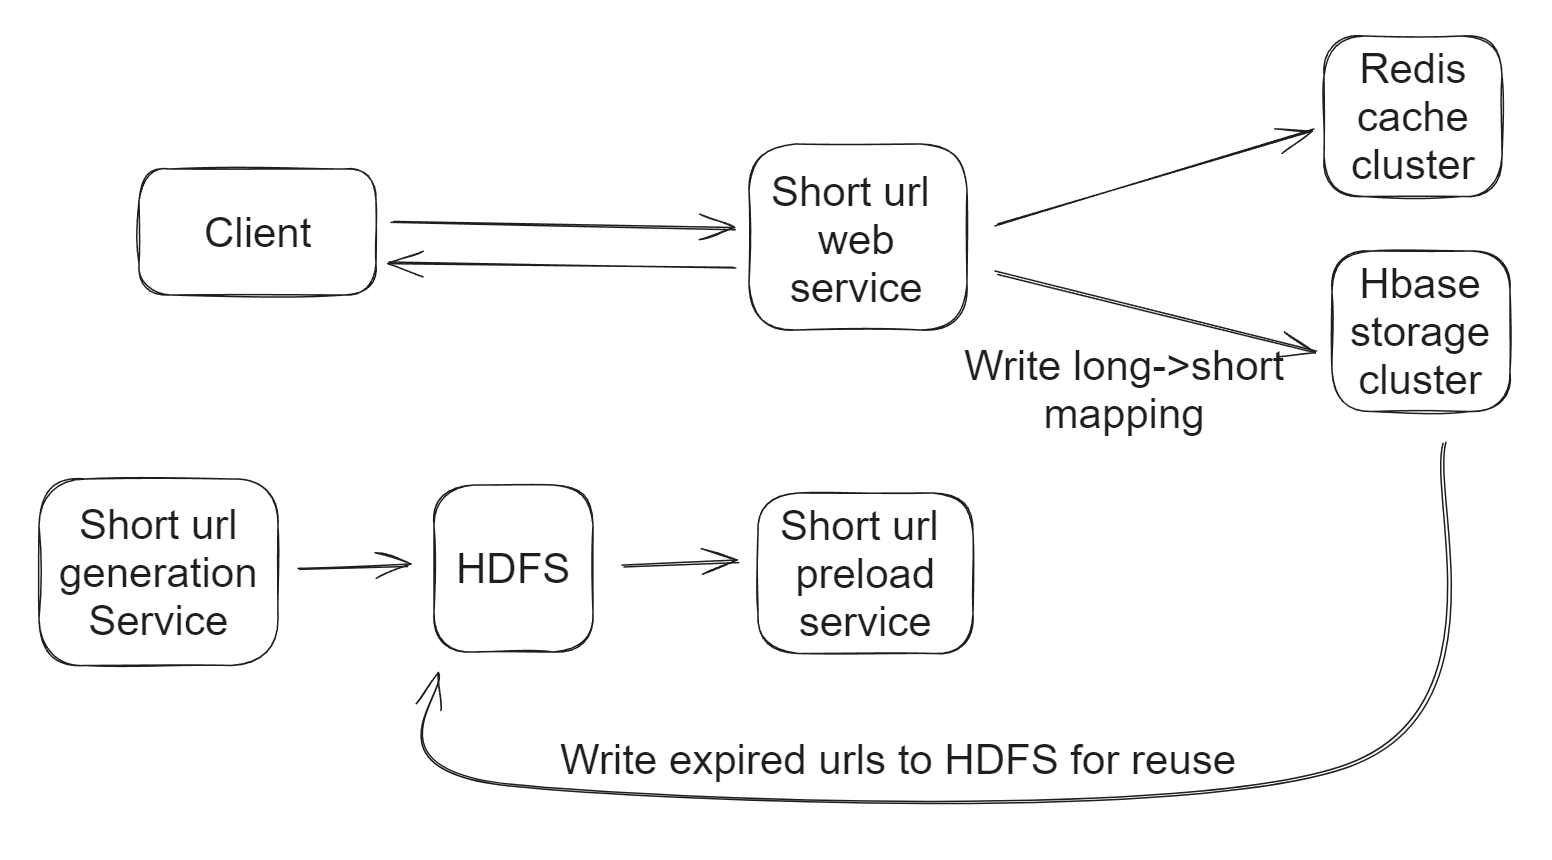
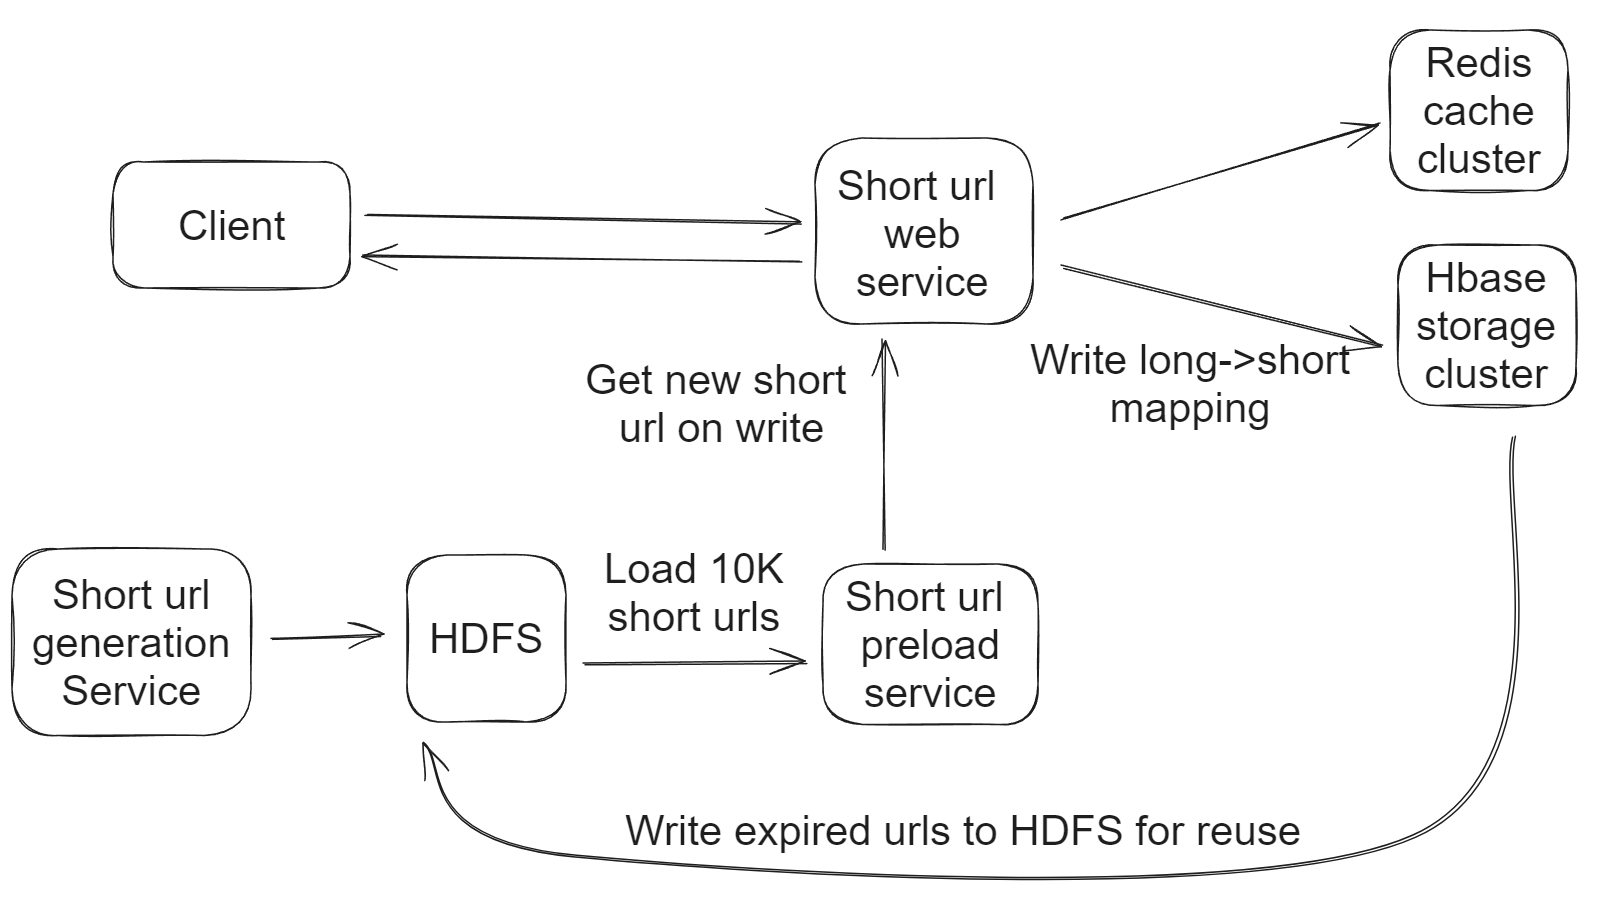
refactor

diff --git a/scenario_tinyurl/flowchart.md b/scenario_tinyurl/flowchart.md
@@ -1,34 +1,16 @@
+- [Naive short url web service](#naive-short-url-web-service)
+    - [Database schema](#database-schema)
+    - [Query](#query)
+    - [Cons](#cons)
+      - [Race condition](#race-condition)
+- [Improved approach](#improved-approach)
+  - [Flowchart](#flowchart)
+  - [HDFS](#hdfs)
+  - [Short url preload service](#short-url-preload-service)
+    - [Steps](#steps)
+    - [Benefits](#benefits)
 
-# Flowchart
-
-![Flowchart](../.gitbook/assets/tinyurl_flowchart.png)
-
-# Deal with expired records
-
-* Solution1: Check data in the service level, if expired, return null
-  * Pros: Simple and keep historical recordds
-  * Cons: Waste disks
-* Solution2: Remove expired data in the database and cache using daemon job
-  * Pros: Reduce storage and save cost, improve query performance
-  * Cons: 
-    * Lost historical records
-    * Complicated structure
-    * Easy to fail
-
-```text
-while(true)
-{
-    List<TinyUrlRecord> expiredRecords = getExpiredRecords();
-    For (TinyUrlRecord r: expiredRecords)
-    {
-        deleteFromDb(r);
-        removeFromCache(r);
-    }
-}
-```
-
-# Offline generators
-## Naive short url generation service
+# Naive short url web service
 * Offline job generates keys \(Daemon process\) and stores into database.
   * Offline job can tolerate longer query time. 
 
@@ -52,3 +34,26 @@ while(true)
   1. Database lock: Select key from keys where status = 0 limit 1 for update skip locked
   2. Distributed lock: bad performance. 
   3. Redis -&gt; LPush and LPop: Redis list data structure is actually queue and it is thread-safe and production ready
+
+# Improved approach
+
+## Flowchart
+
+![Flowchart](../.gitbook/assets/tinyurl_flowchart.png)
+
+## HDFS 
+* After short url is generated, it is stored inside HDFS files consecutively. 
+* 1 billion urls per month means 24 billion records in two years and in total 24 * 10 ^ 9 * 6 = 144 GB.
+* It is stored as ASC code consecutively inside the file.
+
+## Short url preload service
+### Steps
+1. When preload service starts, it needs to preload 10K urls from HDFS. 
+2. Then it just need to read 60K bytes data from HDFS, and store the offset value of 60K. 
+3. Next time it loads another 60K bytes data, starting from the offset value. 
+4. The loaded 10K short urls will be stored as linkedlist inside Url short
+5. Upon request, the url shortener service will get a new entry from the preload service. 
+6. When there is fewer than 2000 new urls inside url preload service, it will load another 10K short urls from HDFS. 
+
+### Benefits
+* Since opening the file and reading from offset is a mutally exclusive operation, it will prevent multiple short url services load simultaneously from HDFS. 

diff --git a/scenario_tinyurl/performance.md b/scenario_tinyurl/performance.md
@@ -1,16 +1,20 @@
 - [Performance](#performance)
+  - [Metrics](#metrics)
   - [Scale read with cache](#scale-read-with-cache)
     - [Cluster size](#cluster-size)
     - [One master multiple slaves](#one-master-multiple-slaves)
       - [Pros](#pros)
       - [Cons](#cons)
-    - [Optimize based on geographical info](#optimize-based-on-geographical-info)
+  - [Deploy servers in different geographical locations](#deploy-servers-in-different-geographical-locations)
 
 
 # Performance
+## Metrics
+* Suppose using redis cache for caching hot short url => long url mappings, using HBase to store the short url => long url mappings. And 80% of responses come from cache. 
+* If Redis response time is typically around 1ms, and server response time is around 5ms, then it would satisfy the requirement that 80% request response time is within 5ms. 
+* Typically HBase response is within 10ms. 
 
 ## Scale read with cache
-
 ### Cluster size
 * Suppose cache (e.g. redis) has a retention time of 7 days. 
 * Every 7 days, there needs to be 0.25 billion urls being accessed.
@@ -28,8 +32,7 @@
   * Solution1: We can write to memcache when creating a new tiny url. Service can get tiny url from memcache instead of database. 
   * Solution2: We can implement Raft protocol against relational database or use opensource or commercial realted database. 
 
-### Optimize based on geographical info
-
+## Deploy servers in different geographical locations
 * Web server
   * Different web servers deployed in different geographical locations
   * Use DNS to parse different web servers to different geographical locations

diff --git a/scenario_tinyurl/follow-up.md b/scenario_tinyurl/follow-up.md
@@ -1,11 +1,11 @@
-- [Follow-up: What if disallowing same long urls mapped to different short urls](#follow-up-what-if-disallowing-same-long-urls-mapped-to-different-short-urls)
+- [What if disallowing same long urls mapped to different short urls (similar allow user to define customized urls)](#what-if-disallowing-same-long-urls-mapped-to-different-short-urls-similar-allow-user-to-define-customized-urls)
   - [Naive sharding key](#naive-sharding-key)
   - [Combine short and long Url as sharding key](#combine-short-and-long-url-as-sharding-key)
     - [Idea](#idea)
     - [Implementation](#implementation)
   - [Geo location sharding key](#geo-location-sharding-key)
 
-# Follow-up: What if disallowing same long urls mapped to different short urls
+# What if disallowing same long urls mapped to different short urls (similar allow user to define customized urls)
 * Before insert random url into database. Check whether it exists within database, if not then insert. 
 * Additional considerations: Not only short-to-long mapping needs to be stored. The long-to-short mapping needs to be stored as well. 
 * This will create additional complexity when choosing sharding key

diff --git a/scenario_tinyurl/storage.md b/scenario_tinyurl/storage.md
@@ -1,5 +1,7 @@
 - [Traditional SQL](#traditional-sql)
   - [Schema design](#schema-design)
+  - [HBase for storing the short-url =\> long-url mapping](#hbase-for-storing-the-short-url--long-url-mapping)
+  - [HDFS for storing the pre-generated short-url =\> long-url mapping](#hdfs-for-storing-the-pre-generated-short-url--long-url-mapping)
 
 
 # Traditional SQL
@@ -12,3 +14,7 @@ Create table tiny_url (
     original_url text not null,
     expired_datetime timestamp without timezone)
 ```
+
+## HBase for storing the short-url => long-url mapping
+
+## HDFS for storing the pre-generated short-url => long-url mapping
